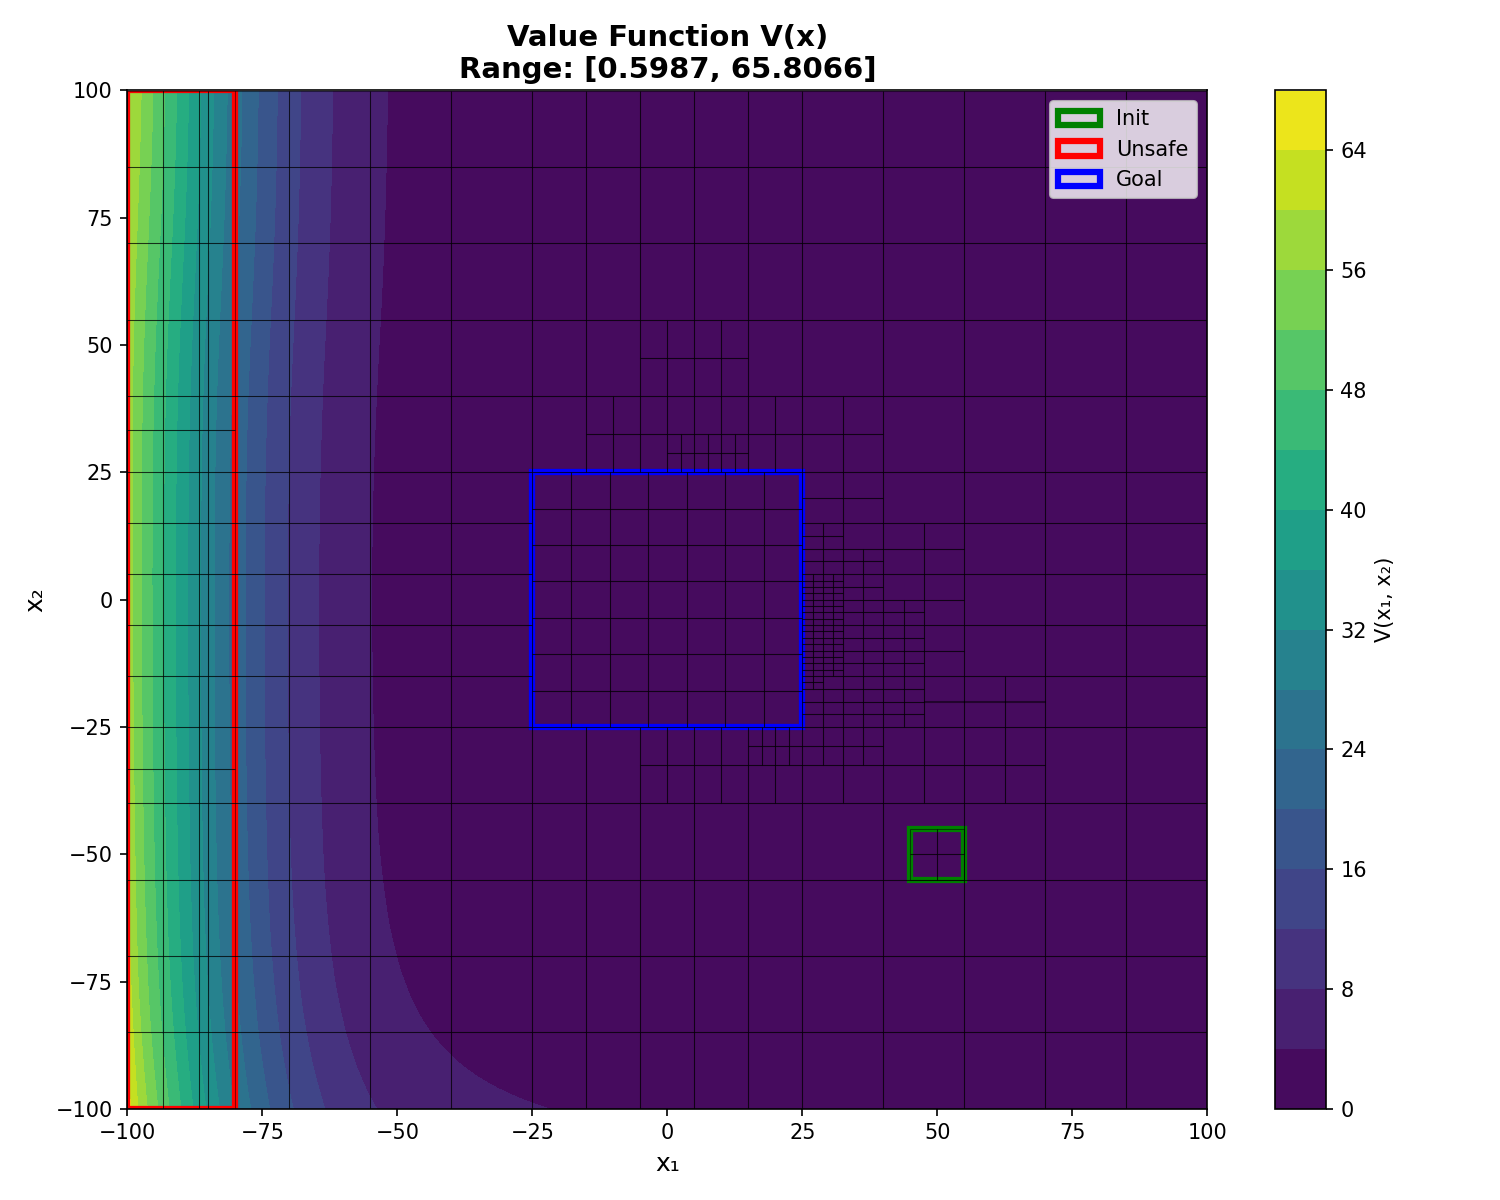
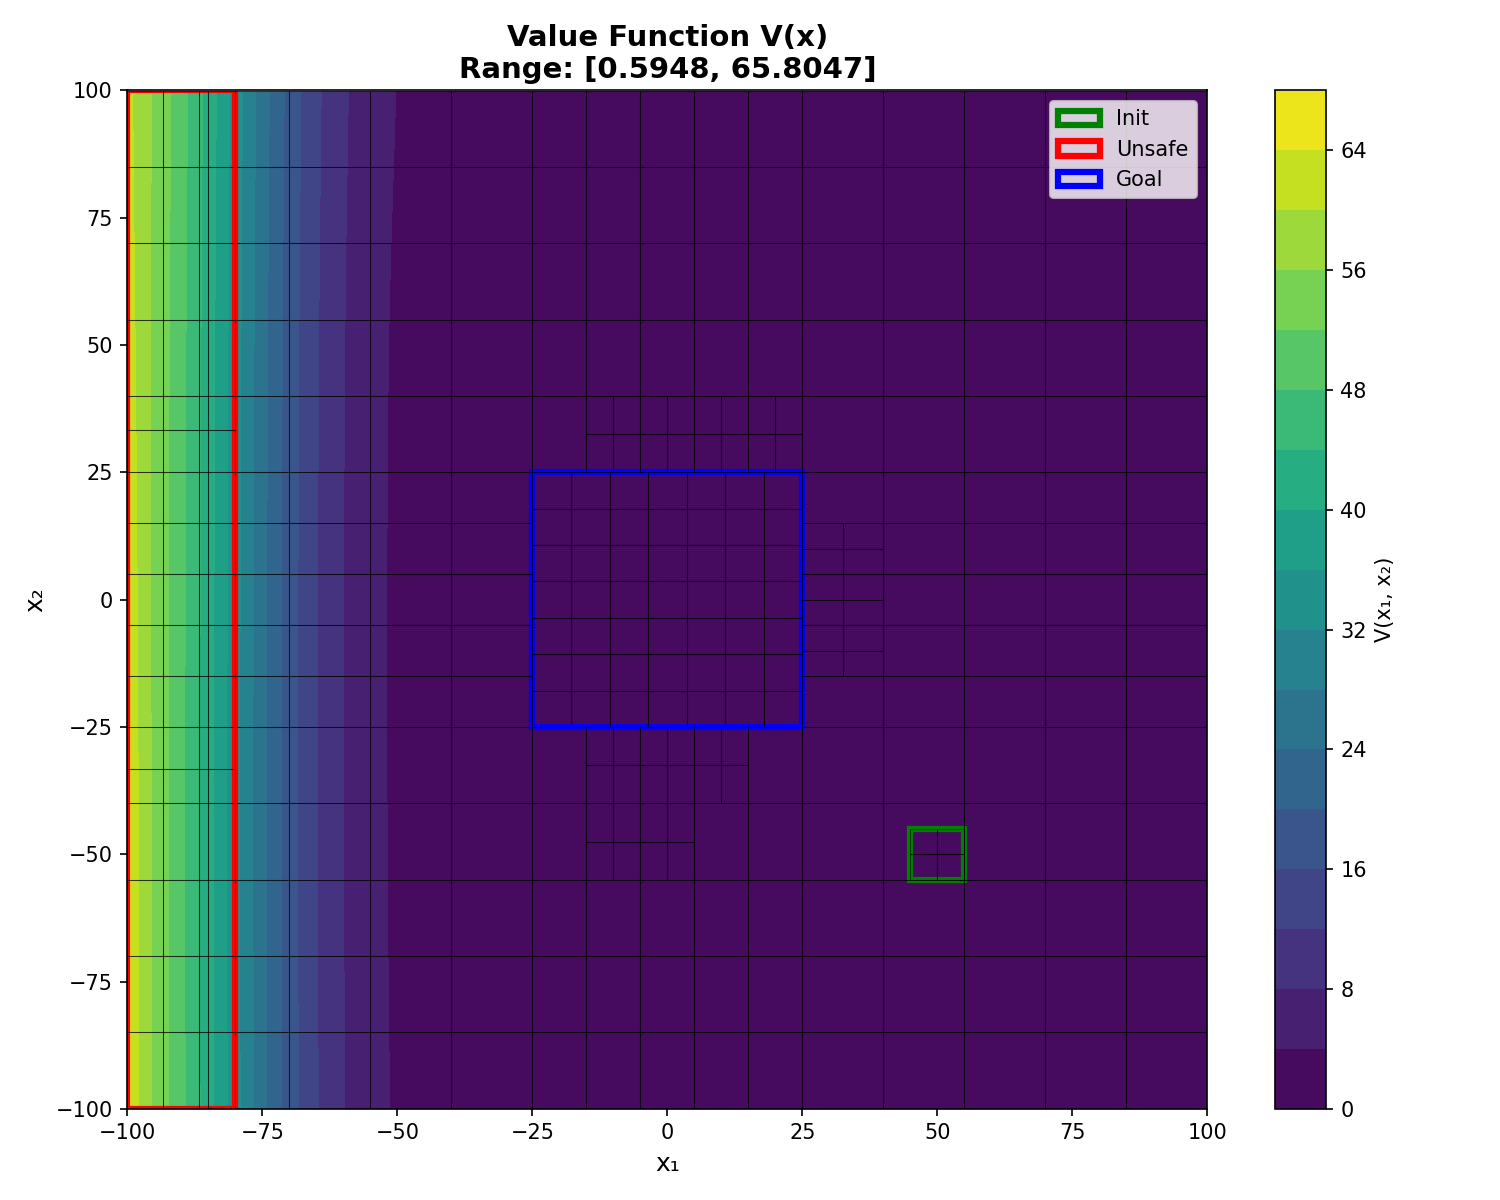
Control synthesis during bound training - success

diff --git a/refactor/main.py b/refactor/main.py
@@ -11,7 +11,11 @@ import torch.nn.functional as F
 import numpy as np
 import math
 import time
+
+# Set up directories
 from pathlib import Path
+ROOT = Path(__file__).resolve().parents[1]   # repo_root
+OUTPUT_DIR = ROOT / "refactor"/ "outputs"
 
 # Set random seed immediately after imports (matching testing_simple3.py)
 torch.manual_seed(0)
@@ -22,6 +26,7 @@ from hyperparameters import Hyperparameters
 from dynamics import Dynamics
 from regions import Regions
 from network import create_V
+from control_network import LinearControlNN # [control synthesis]
 from phi_module import create_GV
 from discretization import discretize_regions
 from crown_bounds import SymbolicCROWNCache, SymbolicCROWNCache_Phi, prepare_cell_bounds
@@ -57,7 +62,7 @@ class LearnableBetaS(nn.Module):
     def value(self):
         """Get the current value of beta_s."""
         return torch.sigmoid(self.beta_s_logit)
-
+    
 
 def pretrain_structure_aware(model, x_goal_range, x_unsafe_range, x_init_range, x_range,
                               A=None, R=None, scale_factor=1.0, num_epochs=1000, lr=0.01, device='cpu'):
@@ -214,7 +219,8 @@ def train_network_bounds(
     regions: Regions,
     params: Hyperparameters,
     device: str = 'cpu',
-    visualize_interval: int = 5000
+    visualize_interval: int = 5000,
+    control_net: nn.Module = None
 ):
     """
     Train the value network using CROWN bounds.
@@ -227,6 +233,7 @@ def train_network_bounds(
         params: Hyperparameters
         device: Device for training
         visualize_interval: Interval for visualization (0 to disable)
+        control_net: if this is provided, then we do [control synthesis]
     """
     print("\n" + "="*80)
     print("BOUND-BASED TRAINING (using CROWN)")
@@ -294,21 +301,29 @@ def train_network_bounds(
         learnable_beta_s = LearnableBetaS(initial_value=initial_beta_s).to(device)
         print(f"\nUsing LEARNABLE beta_s (initialized to {initial_beta_s})")
 
-        # Optimizer includes both V_net and learnable beta_s
-        optimizer = torch.optim.Adam(
-            list(V_net.parameters()) + list(learnable_beta_s.parameters()),
-            lr=params.training.learning_rate
-        )
+        # # Optimizer includes both V_net and learnable beta_s
+        # optimizer = torch.optim.Adam(
+        #     list(V_net.parameters()) + list(learnable_beta_s.parameters()),
+        #     lr=params.training.learning_rate
+        # )
+        opt_params = list(V_net.parameters()) + list(learnable_beta_s.parameters())
     else:
         # Use constant beta_s
         beta_s_value = params.constraints.beta_s
         print(f"\nUsing CONSTANT beta_s = {beta_s_value}")
 
-        # Optimizer only for V_net
-        optimizer = torch.optim.Adam(
-            V_net.parameters(),
-            lr=params.training.learning_rate
-        )
+        # # Optimizer only for V_net
+        # optimizer = torch.optim.Adam(
+        #     V_net.parameters(),
+        #     lr=params.training.learning_rate
+        # )
+        opt_params = list(V_net.parameters())
+
+    # [control synthesis]
+    if control_net is not None:
+        opt_params += list(control_net.parameters())
+
+    optimizer = torch.optim.Adam(opt_params, lr=params.training.learning_rate)
 
     # Scheduler (matching testing_simple3.py)
     scheduler = torch.optim.lr_scheduler.ReduceLROnPlateau(
@@ -580,6 +595,11 @@ def train_network_bounds(
                 beta_s_log = current_beta_s.item() if isinstance(current_beta_s, torch.Tensor) else current_beta_s
                 print(f"Epoch [{epoch}/{params.training.num_epochs}]: Loss={total_loss.item():.4f}, β_s={beta_s_log:.4f}")
             print_loss_summary(epoch, loss_dict, compute_V=compute_V, compute_GV=compute_GV)
+            if control_net is not None:
+                print("control_net parameters:")
+                for name, param in control_net.named_parameters():
+                    if param.requires_grad:
+                        print(f"  {name} =\n{param.data}")
             loss_dict['epoch'] = epoch
             if learnable_beta_s is not None:
                 loss_dict['beta_s'] = beta_s_log
@@ -624,6 +644,11 @@ def train_network_bounds(
                     print("="*80)
                     print(f"Training converged at epoch {epoch}")
                     print(f"Final losses: Goal={loss_dict['goal']:.4f}, Unsafe={loss_dict['unsafe']:.4f}, Init={loss_dict['init']:.4f}, Outside={loss_dict['outside']:.4f}, Gen={loss_dict['generator']:.4f}")
+                    if control_net is not None:
+                        print("control_net parameters:")
+                        for name, param in control_net.named_parameters():
+                            if param.requires_grad:
+                                print(f"  {name} =\n{param.data}")
                     break
 
         # Detailed evaluation and visualization
@@ -812,22 +837,7 @@ def main():
     print("="*80)
 
     # Option 2: Neural network control (implements same K @ x)
-    class LinearControlNN(nn.Module):
-        def __init__(self):
-            super().__init__()
-            # Use nn.Linear but convert weight to buffer (non-trainable)
-            linear = nn.Linear(2, 2, bias=False)
-            with torch.no_grad():
-                linear.weight.copy_(torch.diag(torch.tensor([-1.0, -1.0])))
-            # Register weight as buffer instead of parameter
-            self.register_buffer('weight', linear.weight.data)
-
-        def forward(self, x):
-            # Manually compute linear transformation
-            return torch.nn.functional.linear(x, self.weight, bias=None)
-
     u_nn = LinearControlNN()
-    u_fn = u_control(u_nn)
 
     def f_ol(x: torch.Tensor, u: torch.Tensor = None) -> torch.Tensor:
         # Batch
@@ -836,7 +846,29 @@ def main():
         f1 = -0.5 * x1 + 1.0 * x2
         f2 = -1.0 * x1 + -0.5 * x2
         return torch.stack([f1, f2], dim=1)
+    
+    # [control synthesis] F_CL needs to be an nn Module if u_control is being trained as well
+    class ClosedLoopDrift(nn.Module):
+        """
+        the open-loop dynamics f_ol is specified in forward()
+        """
+        def __init__(self, controller: nn.Module):
+            super().__init__()
+            self.controller = controller   # <- registered as submodule
 
+        def forward(self, x: torch.Tensor) -> torch.Tensor:
+            x1 = x[:, 0]
+            x2 = x[:, 1]
+            f1 = -0.5 * x1 + 1.0 * x2
+            f2 = -1.0 * x1 + -0.5 * x2
+            f_ol = torch.stack([f1, f2], dim=1)
+            return f_ol + self.controller(x)
+
+    # if we do [control synthesis], then
+    #   u_fn and F_CL are necessary only for the current pre_training
+    #   in other words, the controller is kept fixed during pre_training
+    #   future work will remove this dependence such that we can use pre_training to train or not train controller.
+    u_fn = u_control(u_nn)
     def F_CL(x: torch.Tensor, u: torch.Tensor = None) -> torch.Tensor:
         """Closed-loop drift: f_cl(x) = f(x) + u(x)"""
         return f_ol(x) + u_fn(x) 
@@ -858,7 +890,11 @@ def main():
 
     g.get_diagonal_squared = lambda x: (sigma_torch * x) ** 2
 
-    dynamics = Dynamics.dynamics(f=F_CL, g=g)
+    # dynamics = Dynamics.dynamics(f=F_CL, g=g)
+    # new f_cl wrapper for [control synthesis]
+    f_cl_module = ClosedLoopDrift(u_nn).to(params.training.device)
+    dynamics = Dynamics.dynamics(f=f_cl_module, g=g)
+
     print(f"\n{dynamics}")
 
     # ========================================================================
@@ -958,7 +994,8 @@ def main():
         regions=regions,
         params=params,
         device=device,
-        visualize_interval=1000
+        visualize_interval=1000,
+        control_net=u_nn,   # [control synthesis]
     )
 
     # ========================================================================
@@ -1004,7 +1041,8 @@ def main():
     print("SAVING MODEL")
     print("="*80)
 
-    save_path = Path("trained_model_bounds.pth")
+    # save the certificate
+    save_path = OUTPUT_DIR / "trained_model_bounds.pth"
     torch.save({
         'model_state_dict': V_net.state_dict(),
         'hyperparameters': params.to_dict(),
@@ -1015,14 +1053,21 @@ def main():
         'training_method': 'bounds',
         'final_beta_s': final_beta_s  # Save the final beta_s value (learned or constant)
     }, save_path)
+    print(f"Certificate Network saved to: {save_path}")
 
-    print(f"Model saved to: {save_path}")
+    control_save_path = OUTPUT_DIR / "control_net.pth"
+    torch.save({
+        'model_state_dict': u_nn.state_dict(),
+    }, control_save_path)
+    print(f"Control Network saved to: {control_save_path}")
 
     print("\n" + "="*80)
     print("TRAINING COMPLETE")
     print("="*80)
     print(f"\nResults saved to:")
-    print(f"  - Model: {save_path}")
+    print(f"  - Certificate Network: {save_path}")
+    print(f"  - Control Network: {control_save_path}")
+
     print(f"  - Plots: results/")
     if loss_history:
         print(f"  - Training progress: training_progress/")

diff --git a/refactor/control_network.py b/refactor/control_network.py
@@ -1,0 +1,15 @@
+import torch.nn as nn
+import torch
+
+class LinearControlNN(nn.Module):
+    def __init__(self):
+        super().__init__()
+        # Standard fully-connected layer: 2 inputs -> 2 outputs, no bias
+        self.fc = nn.Linear(2, 2, bias=False)
+
+        # Initialize as diag(-1, -1)
+        with torch.no_grad():
+            self.fc.weight.copy_(torch.diag(torch.tensor([-1.0, -1.0])))
+
+    def forward(self, x: torch.Tensor) -> torch.Tensor:
+        return self.fc(x)

diff --git a/refactor/__init__.py b/refactor/__init__.py
@@ -32,6 +32,7 @@ from . import discretization
 from . import training_utils
 from . import visualization
 from . import crown_bounds
+from .control_network import LinearControlNN
 
 
 __version__ = '1.0.0'
@@ -56,6 +57,7 @@ __all__ = [
     'V',
     'VDeep',
     'create_value_network',
+    'LinearControlNN',
 
     # Phi module
     'GV',
